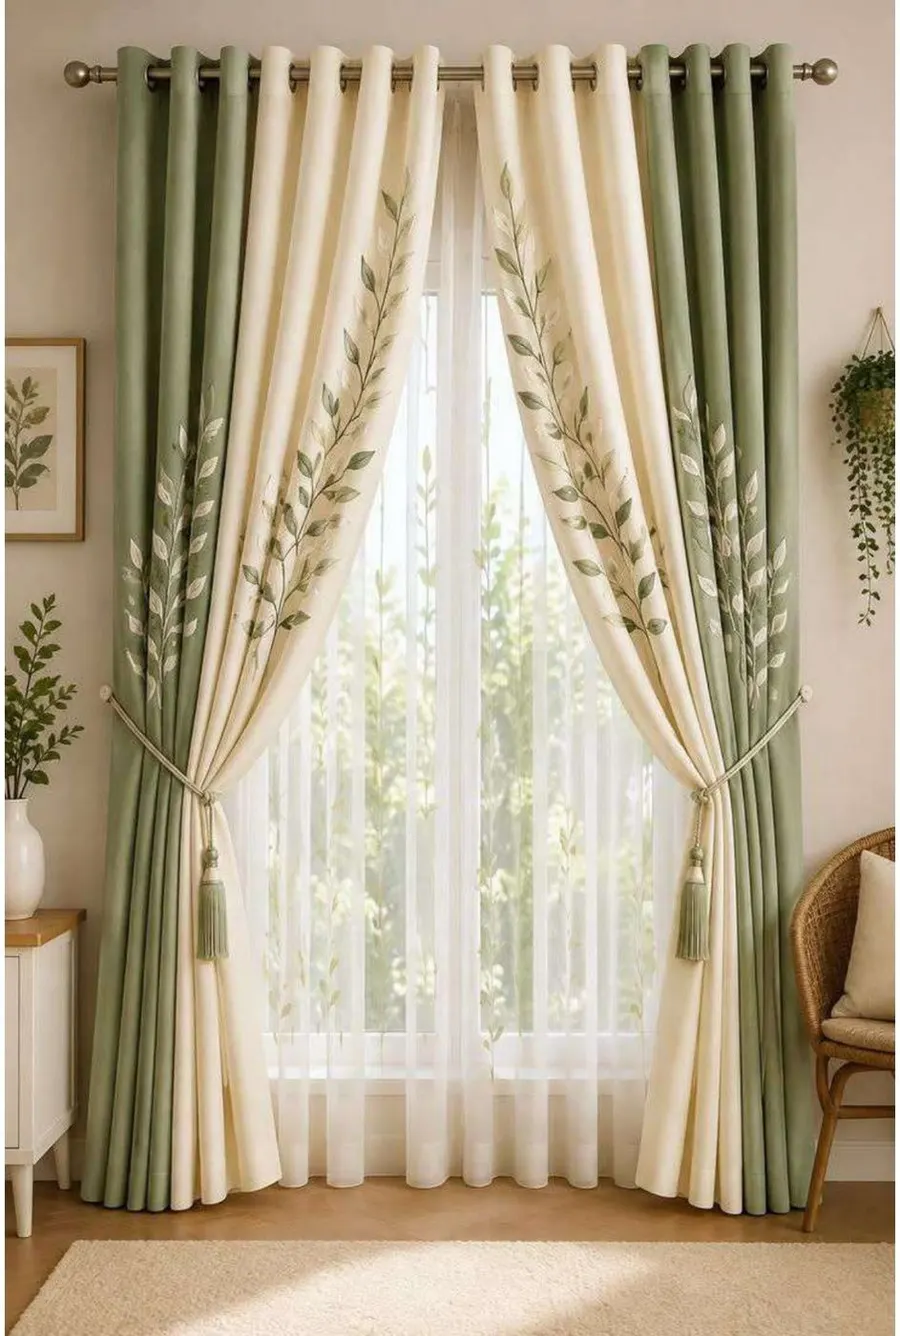
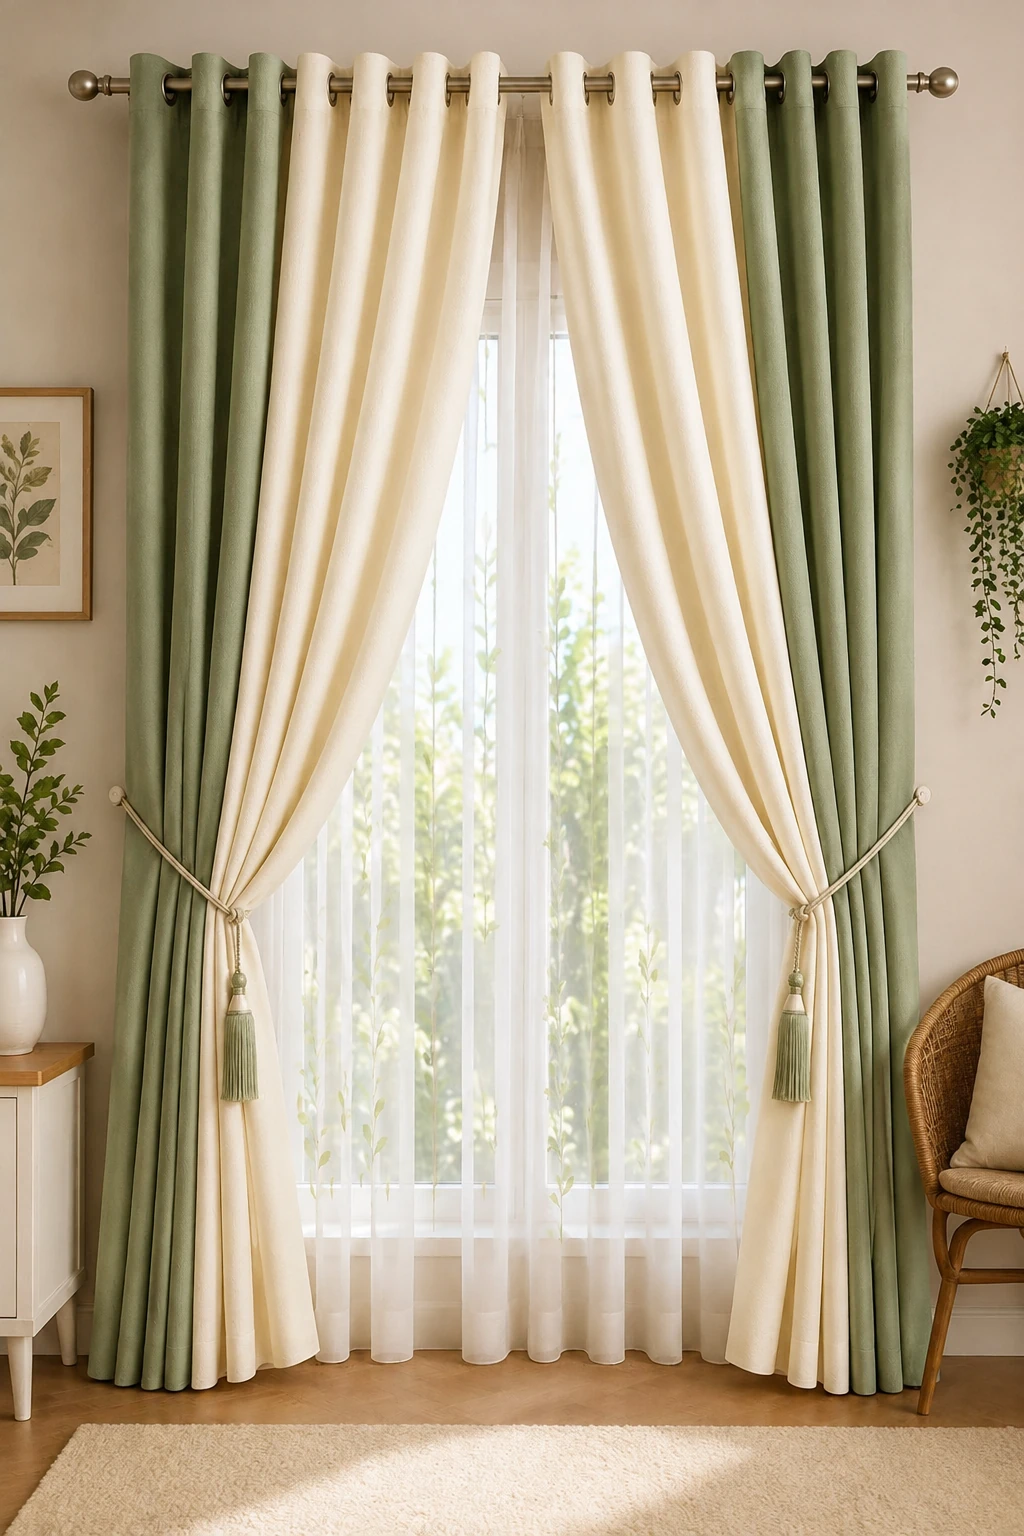
optimization

diff --git a/src/data/siteData.js b/src/data/siteData.js
@@ -165,7 +165,7 @@ export const products = [
     category: "Curtains",
     type: "Blackout",
     art: "curtain",
-    photos: ["/images/products/noir-blackout.webp"],
+    photos: ["/images/products/blackout.webp"],
     tagline: "Blue-grey eyelet panels that block the light and the heat.",
     description:
       "Plain-dyed blackout curtains in a soft blue-grey, finished with easy-glide eyelets. The triple-weave fabric blocks almost all daylight, helps keep the room cooler in summer, and hangs in clean, even folds.",
@@ -288,7 +288,7 @@ export const products = [
     category: "Curtains",
     type: "Custom",
     art: "curtain",
-    photos: ["/images/products/made-to-measure-pleat.webp"],
+    photos: ["/images/products/image.webp"],
     tagline: "Taupe drapes with hold-backs over a full-width sheer.",
     description:
       "A real living-room install: floor-to-ceiling taupe drapes, tailored with banded hold-backs, layered over a full-width white sheer on a double track. We measure, make and hang this exact setup for your window — in your choice of fabric and color.",
@@ -457,6 +457,93 @@ export const products = [
       "/images/products/tvunitextra1.webp",
       "/images/products/tvunitextra2.webp",
       "/images/products/tvunitextra3.webp",
+      "/images/products/matte-panel-wall-2.webp",
+    ],
+    tagline: "Full-height decorative panels with integrated wall lights.",
+    description:
+      "Full-height decorative wall panels with a subtle vertical texture, designer wall lights and a long floating console. A clean, finished backdrop for both the TV and the room — built for apartments and modern interiors.",
+    fabric: "Embossed decorative panels + lacquered console",
+    sizes: ["Made to measure", 'Fits screens 43" – 85"'],
+    colors: [
+      { name: "Warm White", hex: "#efe9dd" },
+      { name: "Greige", hex: "#b3a897" },
+      { name: "Graphite", hex: "#4a4742" },
+    ],
+    features: [
+      "Full-height decorative panels",
+      "Designer wall lights included",
+      "Long floating console with storage",
+      "Fingerprint-resistant finish",
+    ],
+    care: "Wipe with a soft damp cloth; no polish needed.",
+  },
+
+  {
+    id: "matte-panel-wall",
+    name: "Designer Panel TV Wall",
+    category: "TV Wall Design",
+    art: "tvwall",
+    photos: [
+      "/images/products/tvunitextra1.webp",
+      "/images/products/tvunitextra2.webp",
+      "/images/products/tvunitextra3.webp",
+      "/images/products/matte-panel-wall-2.webp",
+    ],
+    tagline: "Full-height decorative panels with integrated wall lights.",
+    description:
+      "Full-height decorative wall panels with a subtle vertical texture, designer wall lights and a long floating console. A clean, finished backdrop for both the TV and the room — built for apartments and modern interiors.",
+    fabric: "Embossed decorative panels + lacquered console",
+    sizes: ["Made to measure", 'Fits screens 43" – 85"'],
+    colors: [
+      { name: "Warm White", hex: "#efe9dd" },
+      { name: "Greige", hex: "#b3a897" },
+      { name: "Graphite", hex: "#4a4742" },
+    ],
+    features: [
+      "Full-height decorative panels",
+      "Designer wall lights included",
+      "Long floating console with storage",
+      "Fingerprint-resistant finish",
+    ],
+    care: "Wipe with a soft damp cloth; no polish needed.",
+  },
+
+  {
+    id: "matte-panel-wall",
+    name: "Designer Panel TV Wall",
+    category: "TV Wall Design",
+    art: "tvwall",
+    photos: [
+      "/images/products/tvunitextra2.webp",
+      "/images/products/tvunitextra3.webp",
+      "/images/products/matte-panel-wall-2.webp",
+    ],
+    tagline: "Full-height decorative panels with integrated wall lights.",
+    description:
+      "Full-height decorative wall panels with a subtle vertical texture, designer wall lights and a long floating console. A clean, finished backdrop for both the TV and the room — built for apartments and modern interiors.",
+    fabric: "Embossed decorative panels + lacquered console",
+    sizes: ["Made to measure", 'Fits screens 43" – 85"'],
+    colors: [
+      { name: "Warm White", hex: "#efe9dd" },
+      { name: "Greige", hex: "#b3a897" },
+      { name: "Graphite", hex: "#4a4742" },
+    ],
+    features: [
+      "Full-height decorative panels",
+      "Designer wall lights included",
+      "Long floating console with storage",
+      "Fingerprint-resistant finish",
+    ],
+    care: "Wipe with a soft damp cloth; no polish needed.",
+  },
+
+  {
+    id: "matte-panel-wall",
+    name: "Designer Panel TV Wall",
+    category: "TV Wall Design",
+    art: "tvwall",
+    photos: [
+      "/images/products/tvunitextra3.png",
       "/images/products/matte-panel-wall-2.webp",
     ],
     tagline: "Full-height decorative panels with integrated wall lights.",
@@ -647,6 +734,96 @@ export const products = [
       "Delivered and placed by our team",
     ],
     care: "Spot-clean promptly; vacuum crevices monthly.",
+  },
+
+  {
+    id: "velvet-sofa",
+    name: "Velvet Sofa Set",
+    category: "Furniture",
+    art: "furniture",
+    photos: [
+      "/images/products/dress1-1.webp",
+      "/images/products/velvet-sofa-2.webp",
+      "/images/products/velvet-sofa-3.webp",
+    ],
+    tagline: "Rust-orange velvet seating with a matching bench table.",
+    description:
+      "Deep, plush seating in a rich rust velvet — sofas styled with bolsters and scatter cushions, plus a matching upholstered bench-coffee table. Built on hardwood frames, upholstered in your choice of fabric and color.",
+    fabric: "Hardwood frame, high-resilience foam",
+    sizes: ["Standard 220 cm", "Made to any width"],
+    colors: [
+      { name: "Rust", hex: "#b4552d" },
+      { name: "Emerald", hex: "#2f5d50" },
+      { name: "Burgundy", hex: "#6e2433" },
+      { name: "Sand", hex: "#c3ae8d" },
+    ],
+    features: [
+      "Fabric and color of your choice",
+      "Solid hardwood frame",
+      "Bench-coffee table to match",
+      "Delivered and placed by our team",
+    ],
+    care: "Vacuum weekly; spot-clean with a damp cloth and mild soap.",
+  },
+
+  {
+    id: "velvet-sofa",
+    name: "Velvet Sofa Set",
+    category: "Furniture",
+    art: "furniture",
+    photos: [
+      "/images/products/dress1-2.webp",
+      "/images/products/velvet-sofa-2.webp",
+      "/images/products/velvet-sofa-3.webp",
+    ],
+    tagline: "Rust-orange velvet seating with a matching bench table.",
+    description:
+      "Deep, plush seating in a rich rust velvet — sofas styled with bolsters and scatter cushions, plus a matching upholstered bench-coffee table. Built on hardwood frames, upholstered in your choice of fabric and color.",
+    fabric: "Hardwood frame, high-resilience foam",
+    sizes: ["Standard 220 cm", "Made to any width"],
+    colors: [
+      { name: "Rust", hex: "#b4552d" },
+      { name: "Emerald", hex: "#2f5d50" },
+      { name: "Burgundy", hex: "#6e2433" },
+      { name: "Sand", hex: "#c3ae8d" },
+    ],
+    features: [
+      "Fabric and color of your choice",
+      "Solid hardwood frame",
+      "Bench-coffee table to match",
+      "Delivered and placed by our team",
+    ],
+    care: "Vacuum weekly; spot-clean with a damp cloth and mild soap.",
+  },
+
+  {
+    id: "velvet-sofa",
+    name: "Velvet Sofa Set",
+    category: "Furniture",
+    art: "furniture",
+    photos: [
+      "/images/products/dress1-3.webp",
+      "/images/products/velvet-sofa-2.webp",
+      "/images/products/velvet-sofa-3.webp",
+    ],
+    tagline: "Rust-orange velvet seating with a matching bench table.",
+    description:
+      "Deep, plush seating in a rich rust velvet — sofas styled with bolsters and scatter cushions, plus a matching upholstered bench-coffee table. Built on hardwood frames, upholstered in your choice of fabric and color.",
+    fabric: "Hardwood frame, high-resilience foam",
+    sizes: ["Standard 220 cm", "Made to any width"],
+    colors: [
+      { name: "Rust", hex: "#b4552d" },
+      { name: "Emerald", hex: "#2f5d50" },
+      { name: "Burgundy", hex: "#6e2433" },
+      { name: "Sand", hex: "#c3ae8d" },
+    ],
+    features: [
+      "Fabric and color of your choice",
+      "Solid hardwood frame",
+      "Bench-coffee table to match",
+      "Delivered and placed by our team",
+    ],
+    care: "Vacuum weekly; spot-clean with a damp cloth and mild soap.",
   },
 ];
 
